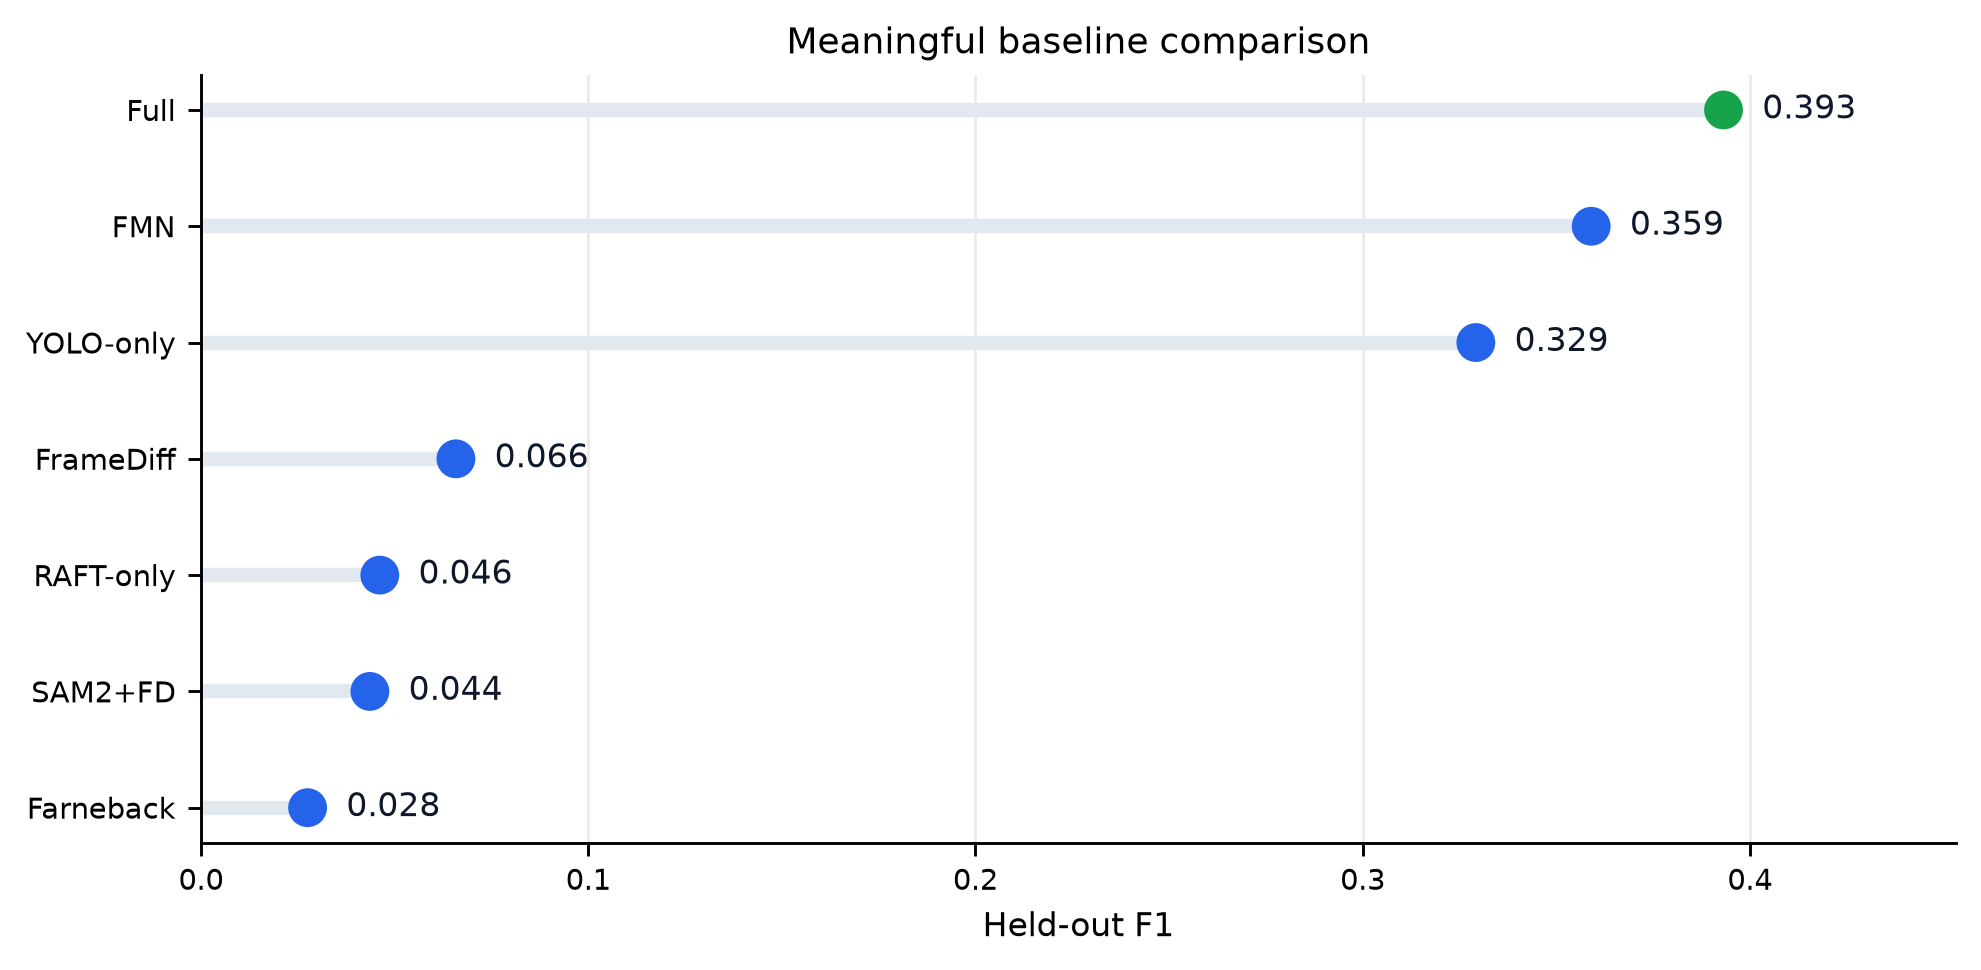
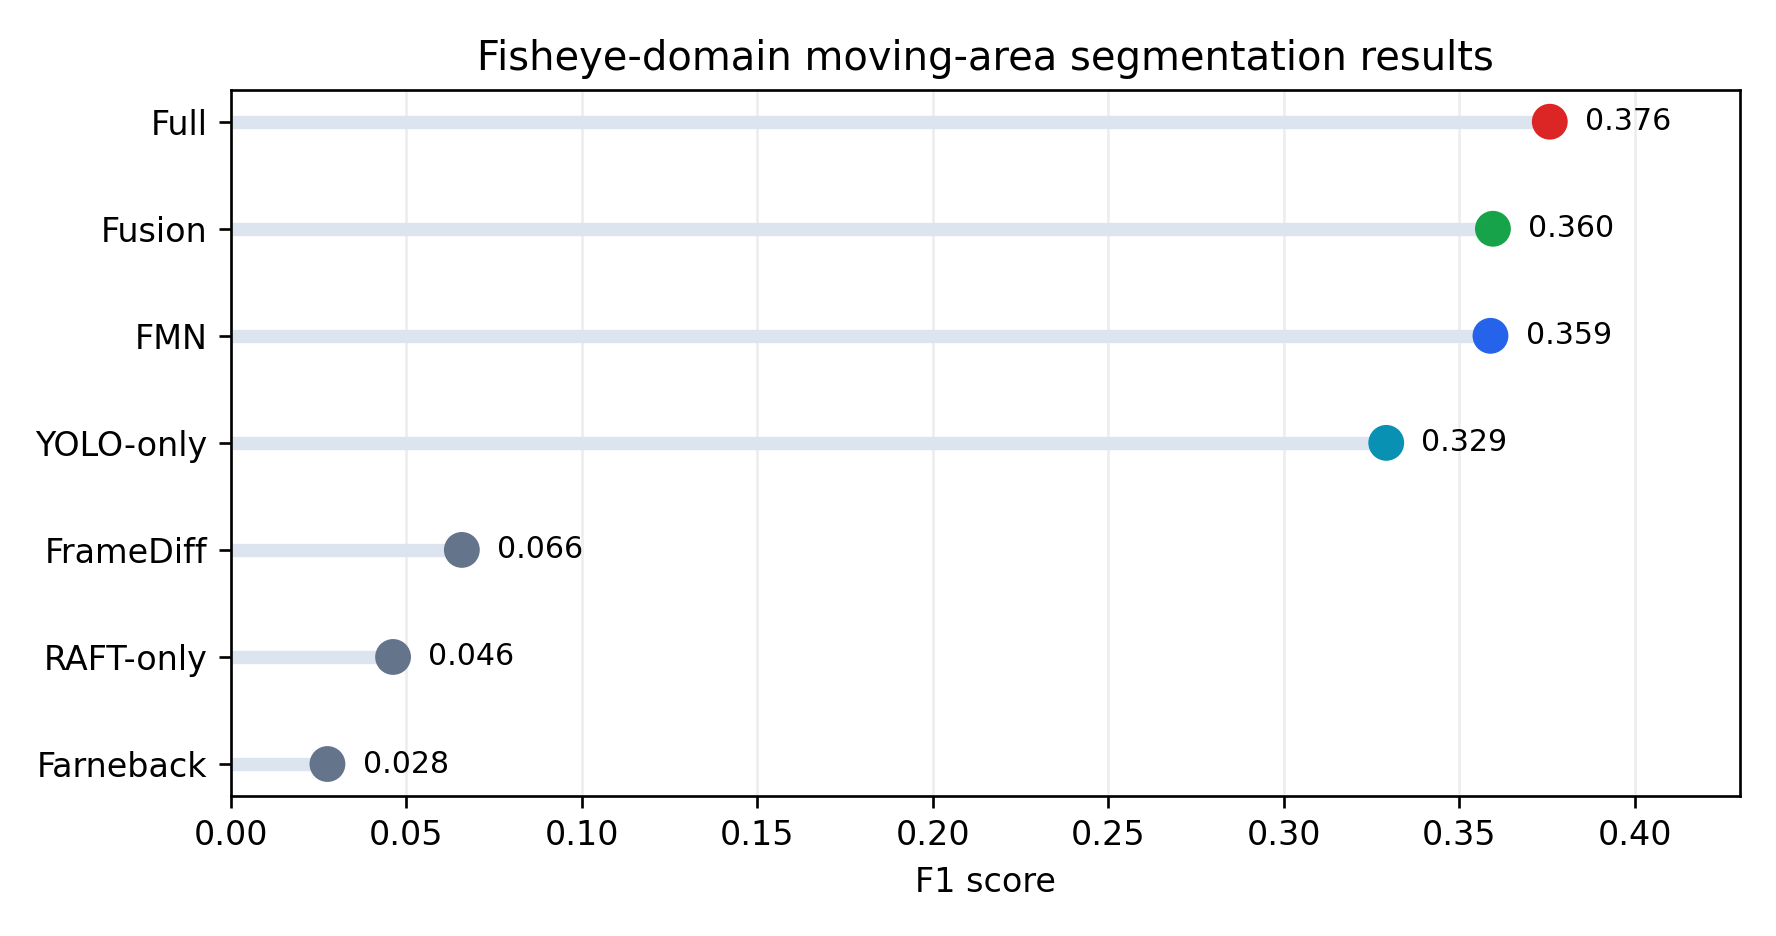
Polish paper authors and references

diff --git a/docs/paper/main.tex b/docs/paper/main.tex
@@ -5,7 +5,7 @@
 \usepackage{fontspec}
 \setmainfont{DejaVu Sans}
 \setsansfont{DejaVu Sans}
-\newfontfamily\cjkfont{Droid Sans Fallback}
+\newfontfamily\cjkfont{WenQuanYi Micro Hei}
 \XeTeXlinebreaklocale "zh"
 \XeTeXlinebreakskip=0pt plus 1pt
 \usepackage{graphicx}
@@ -28,7 +28,7 @@
 \titleformat{\subsection}{\normalsize\bfseries}{\thesubsection}{0.5em}{}
 
 \title{\vspace{-1.0em}\bfseries FisheyeMotion: {\cjkfont 面向鱼眼视频运动区域抽象的多源深度证据融合与双路线评估}}
-\author{Zhuang Jiahan\\Tongji University\\\texttt{https://github.com/FerdinandClooney/fisheye\_motion}}
+\author{{\cjkfont 2354265 庄嘉瀚 \quad 2351745 张巍瀚}\\{\cjkfont 同济大学}}
 \date{}
 
 \begin{document}
@@ -36,7 +36,7 @@
 \vspace{-1.1em}
 
 \begin{abstract}
-{\cjkfont 鱼眼视频以大视场覆盖换取强非线性投影畸变，使同一三维运动在图像中心与边缘呈现显著不同的尺度、边界和光流统计。本文提出} \textbf{FisheyeMotion}{\cjkfont ，一个面向相邻鱼眼帧运动区域抽象与短时目标跟踪的} GPU {\cjkfont 深度学习系统。系统融合} RAFT {\cjkfont 光流、}YOLO26-seg {\cjkfont 实例先验、}DINOv2 {\cjkfont 语义变化、边界提示、鱼眼几何编码、监督式} FisheyeMotionNet{\cjkfont 、测试时增强不确定性融合与} SAM2.1 {\cjkfont 掩膜细化。我们进一步实现两条可复现实验路线：直接在原始鱼眼域处理，以及先校正再反投影回鱼眼域评估。完整} pipeline {\cjkfont 在} 130 {\cjkfont 个有效样本上完成特征缓存、训练、消融、区域评估和路线对比；测试集包含} 19 {\cjkfont 个样本。最新运行显示，原始鱼眼域完整模型取得} IoU 0.2959{\cjkfont 、}Precision 0.3352{\cjkfont 、}Recall 0.5941{\cjkfont 、}F1 0.3758{\cjkfont ，显著优于} FrameDiff{\cjkfont 、}Farneback {\cjkfont 和} RAFT-only{\cjkfont ，并在边缘区域达到} F1 0.2916{\cjkfont 。与之相比，校正路线完整模型} F1 {\cjkfont 仅为} 0.0883{\cjkfont ，说明在本数据规模和当前反投影误差下，保持原始鱼眼域并显式注入几何先验比前置校正更可靠。}
+{\cjkfont 鱼眼视频以大视场覆盖换取强非线性投影畸变，使同一三维运动在图像中心与边缘呈现显著不同的尺度、边界和光流统计。本文提出} \textbf{FisheyeMotion}{\cjkfont ，一个面向相邻鱼眼帧运动区域抽象与短时目标跟踪的} GPU {\cjkfont 深度学习系统。系统融合} RAFT {\cjkfont 光流、}YOLO26-seg {\cjkfont 实例先验、}DINOv2 {\cjkfont 语义变化、边界提示、鱼眼几何编码、监督式} FisheyeMotionNet{\cjkfont 、测试时增强不确定性融合与} SAM2.1 {\cjkfont 掩膜细化。针对课程要求中的两种技术路线，我们分别实现原始鱼眼域处理与校正域处理，并将校正域预测反投影回鱼眼域进行公平评估。实验在} 130 {\cjkfont 个有效样本上完成训练、消融、区域评估和路线对比；测试集包含} 19 {\cjkfont 个样本。结果显示，原始鱼眼域完整模型取得} IoU 0.2959{\cjkfont 、}Precision 0.3352{\cjkfont 、}Recall 0.5941{\cjkfont 、}F1 0.3758{\cjkfont ，显著优于} FrameDiff{\cjkfont 、}Farneback {\cjkfont 和} RAFT-only{\cjkfont ，并在边缘区域达到} F1 0.2916{\cjkfont 。与之相比，校正路线完整模型} F1 {\cjkfont 为} 0.0883{\cjkfont ，说明在本数据规模和当前反投影误差下，保持原始鱼眼域并显式注入几何先验比前置校正更可靠。}
 \end{abstract}
 
 \section{{\cjkfont 引言}}
@@ -46,7 +46,7 @@
 
 {\cjkfont 本文贡献如下：}
 \begin{itemize}
-  \item {\cjkfont 构建完整} GPU pipeline{\cjkfont ，覆盖数据校验、}RAFT/YOLO/DINO {\cjkfont 特征缓存、监督训练、}SAM2.1 {\cjkfont 细化、区域评估、短时跟踪和可复现脚本。}
+  \item {\cjkfont 构建完整} GPU {\cjkfont 实验流程，覆盖数据校验、}RAFT/YOLO/DINO {\cjkfont 特征缓存、监督训练、}SAM2.1 {\cjkfont 细化、区域评估、短时跟踪和可复现脚本。}
   \item {\cjkfont 提出多源证据融合的} FisheyeMotionNet{\cjkfont ，将} RGB pair{\cjkfont 、帧差、深度光流、实例} mask{\cjkfont 、语义变化、边界提示和鱼眼几何编码统一到监督分割框架。}
   \item {\cjkfont 实现原始鱼眼域与校正域两条路线，并在相同鱼眼} GT {\cjkfont 上公平比较，揭示当前任务中前置校正会显著损害最终掩膜质量。}
 \end{itemize}
@@ -105,17 +105,17 @@ S=w_nP_{net}+w_fP_{flow}+w_yP_{yolo}+w_dP_{dino}+w_eP_{edge}-w_uU.
 {\cjkfont 高置信点、运动连通域框和} YOLO {\cjkfont 框共同组成} SAM2.1 prompts{\cjkfont 。该设计使} SAM2.1 {\cjkfont 主要负责边界细化，运动属性仍由多源证据和监督网络决定。}
 
 \section{{\cjkfont 实验设置}}
-{\cjkfont 数据集为} \texttt{data/homework2}{\cjkfont ，包含当前帧、前一帧、}GT {\cjkfont 掩膜和鱼眼标定文件。最新完整运行共验证} 130 {\cjkfont 个完整样本，图像原始尺寸为} $1280\times966${\cjkfont 。训练}/{\cjkfont 验证}/{\cjkfont 测试比例为} 70/15/15{\cjkfont ，测试集} 19 {\cjkfont 个样本。所有深度模块均强制使用} GPU{\cjkfont ；本次运行环境为} NVIDIA GeForce RTX 3060 Laptop GPU{\cjkfont ，}PyTorch 2.11.0+cu128{\cjkfont 。完整命令为：}
+{\cjkfont 实验使用课程提供的鱼眼图像数据集，样本由当前帧、前一帧、}GT {\cjkfont 掩膜和鱼眼标定文件组成。共验证} 130 {\cjkfont 个完整样本，图像原始尺寸为} $1280\times966${\cjkfont 。训练}/{\cjkfont 验证}/{\cjkfont 测试比例为} 70/15/15{\cjkfont ，测试集} 19 {\cjkfont 个样本。所有深度模块均强制使用} GPU{\cjkfont ；实验环境为} NVIDIA GeForce RTX 3060 Laptop GPU{\cjkfont ，}PyTorch 2.11.0+cu128{\cjkfont 。实验流程可由以下命令复现：}
 \begin{center}
 \small\texttt{bash scripts/run\_full\_pipeline.sh}
 \end{center}
-{\cjkfont 该脚本依次执行数据校验、鱼眼域特征缓存、鱼眼域训练评估、校正域特征缓存、校正域训练评估、消融、区域评估和路线对比。}
+{\cjkfont 该脚本依次执行数据校验、鱼眼域训练评估、校正域训练评估、消融、区域评估和路线对比。}
 
 \section{{\cjkfont 结果}}
 \subsection{{\cjkfont 主结果}}
 \begin{table}[t]
 \centering
-\caption{{\cjkfont 原始鱼眼域测试集主结果。所有数值来自本次完整} pipeline {\cjkfont 生成的} \texttt{outputs/route\_comparison.csv}{\cjkfont 。}}
+\caption{{\cjkfont 原始鱼眼域测试集主结果。表中数值为固定测试集上的平均指标。}}
 \label{tab:fisheye-main}
 \resizebox{\columnwidth}{!}{
 \begin{tabular}{lcccc}
@@ -137,7 +137,7 @@ UncertaintyFusion & 0.2727 & 0.3595 & 0.4433 & 0.3596\\
 
 \begin{figure}[t]
   \centering
-  \includegraphics[width=\columnwidth]{../../outputs/figures/method_f1_bar.png}
+  \includegraphics[width=\columnwidth]{../figures/method_ranking.png}
   \caption{\textbf{{\cjkfont 鱼眼域方法} F1 {\cjkfont 对比。}} {\cjkfont 深度融合方法显著优于传统帧差、}Farneback {\cjkfont 和单独光流路线。}}
   \label{fig:method-f1}
 \end{figure}
@@ -166,7 +166,7 @@ Rectified & YOLO-only & 0.0498 & 0.0914 & 0.0708 & 0.0737\\
 
 \begin{figure}[t]
   \centering
-  \includegraphics[width=\columnwidth]{../../outputs/figures/route_comparison.png}
+  \includegraphics[width=\columnwidth]{../figures/route_comparison.png}
   \caption{\textbf{{\cjkfont 双路线} F1 {\cjkfont 对比。}} {\cjkfont 原始鱼眼域路线在多数方法上均优于先校正再反投影路线。}}
   \label{fig:route}
 \end{figure}
@@ -239,13 +239,13 @@ w/o YOLO & 0.0132 & 0.0000\\
 \end{figure}
 
 \section{{\cjkfont 讨论}}
-{\cjkfont 本次完整运行给出两个工程上重要的结论。第一，鱼眼运动分割的瓶颈不是单个模型是否足够强，而是证据之间如何约束。}YOLO-only {\cjkfont 能提供高召回但缺少运动性；}RAFT-only {\cjkfont 能提供运动但缺少实例和语义；}SAM2-FrameDiff {\cjkfont 受} prompt {\cjkfont 质量限制。第二，前置校正并非天然更优。校正能让图像局部更接近针孔视角，但也会改变纹理、边界和} mask {\cjkfont 对齐方式；当最终评估仍在鱼眼} GT {\cjkfont 上进行时，反投影误差会直接损害像素级指标。}
+{\cjkfont 实验给出两个重要结论。第一，鱼眼运动分割的瓶颈不是单个模型是否足够强，而是证据之间如何约束。}YOLO-only {\cjkfont 能提供高召回但缺少运动性；}RAFT-only {\cjkfont 能提供运动但缺少实例和语义；}SAM2-FrameDiff {\cjkfont 受} prompt {\cjkfont 质量限制。第二，前置校正并非天然更优。校正能让图像局部更接近针孔视角，但也会改变纹理、边界和} mask {\cjkfont 对齐方式；当最终评估仍在鱼眼} GT {\cjkfont 上进行时，反投影误差会直接损害像素级指标。}
 
 \section{{\cjkfont 局限与未来工作}}
 {\cjkfont 当前数据规模较小，测试集只有} 19 {\cjkfont 个样本，结论仍需在更多天气、光照和相机型号上验证。其次，跟踪评估主要是短时关联，尚未覆盖} IDF1{\cjkfont 、}HOTA {\cjkfont 或长时遮挡恢复。第三，}Full {\cjkfont 模型对} YOLO {\cjkfont 先验依赖较强，}w/o YOLO {\cjkfont 消融几乎失效。后续工作可引入长视频记忆网络、}DINO/SAM {\cjkfont 伪标签扩增、畸变感知} transformer decoder{\cjkfont ，以及联合优化校正域和鱼眼域的一致性约束。}
 
 \section{{\cjkfont 结论}}
-{\cjkfont 本文完成了一个可复现的鱼眼视频运动区域抽象系统。最新完整} pipeline {\cjkfont 表明，在本数据集和当前实现下，直接在原始鱼眼域处理并显式加入几何编码，是优于先校正再反投影的路线。完整模型在综合} F1{\cjkfont 、召回率和边缘区域} F1 {\cjkfont 上均显著优于传统} baseline{\cjkfont ，证明多源深度证据融合是处理鱼眼运动分割问题的有效方向。}
+{\cjkfont 本文完成了一个可复现的鱼眼视频运动区域抽象系统。实验表明，在本数据集和当前实现下，直接在原始鱼眼域处理并显式加入几何编码，是优于先校正再反投影的路线。完整模型在综合} F1{\cjkfont 、召回率和边缘区域} F1 {\cjkfont 上均显著优于传统} baseline{\cjkfont ，证明多源深度证据融合是处理鱼眼运动分割问题的有效方向。}
 
 \bibliographystyle{plain}
 \bibliography{references}